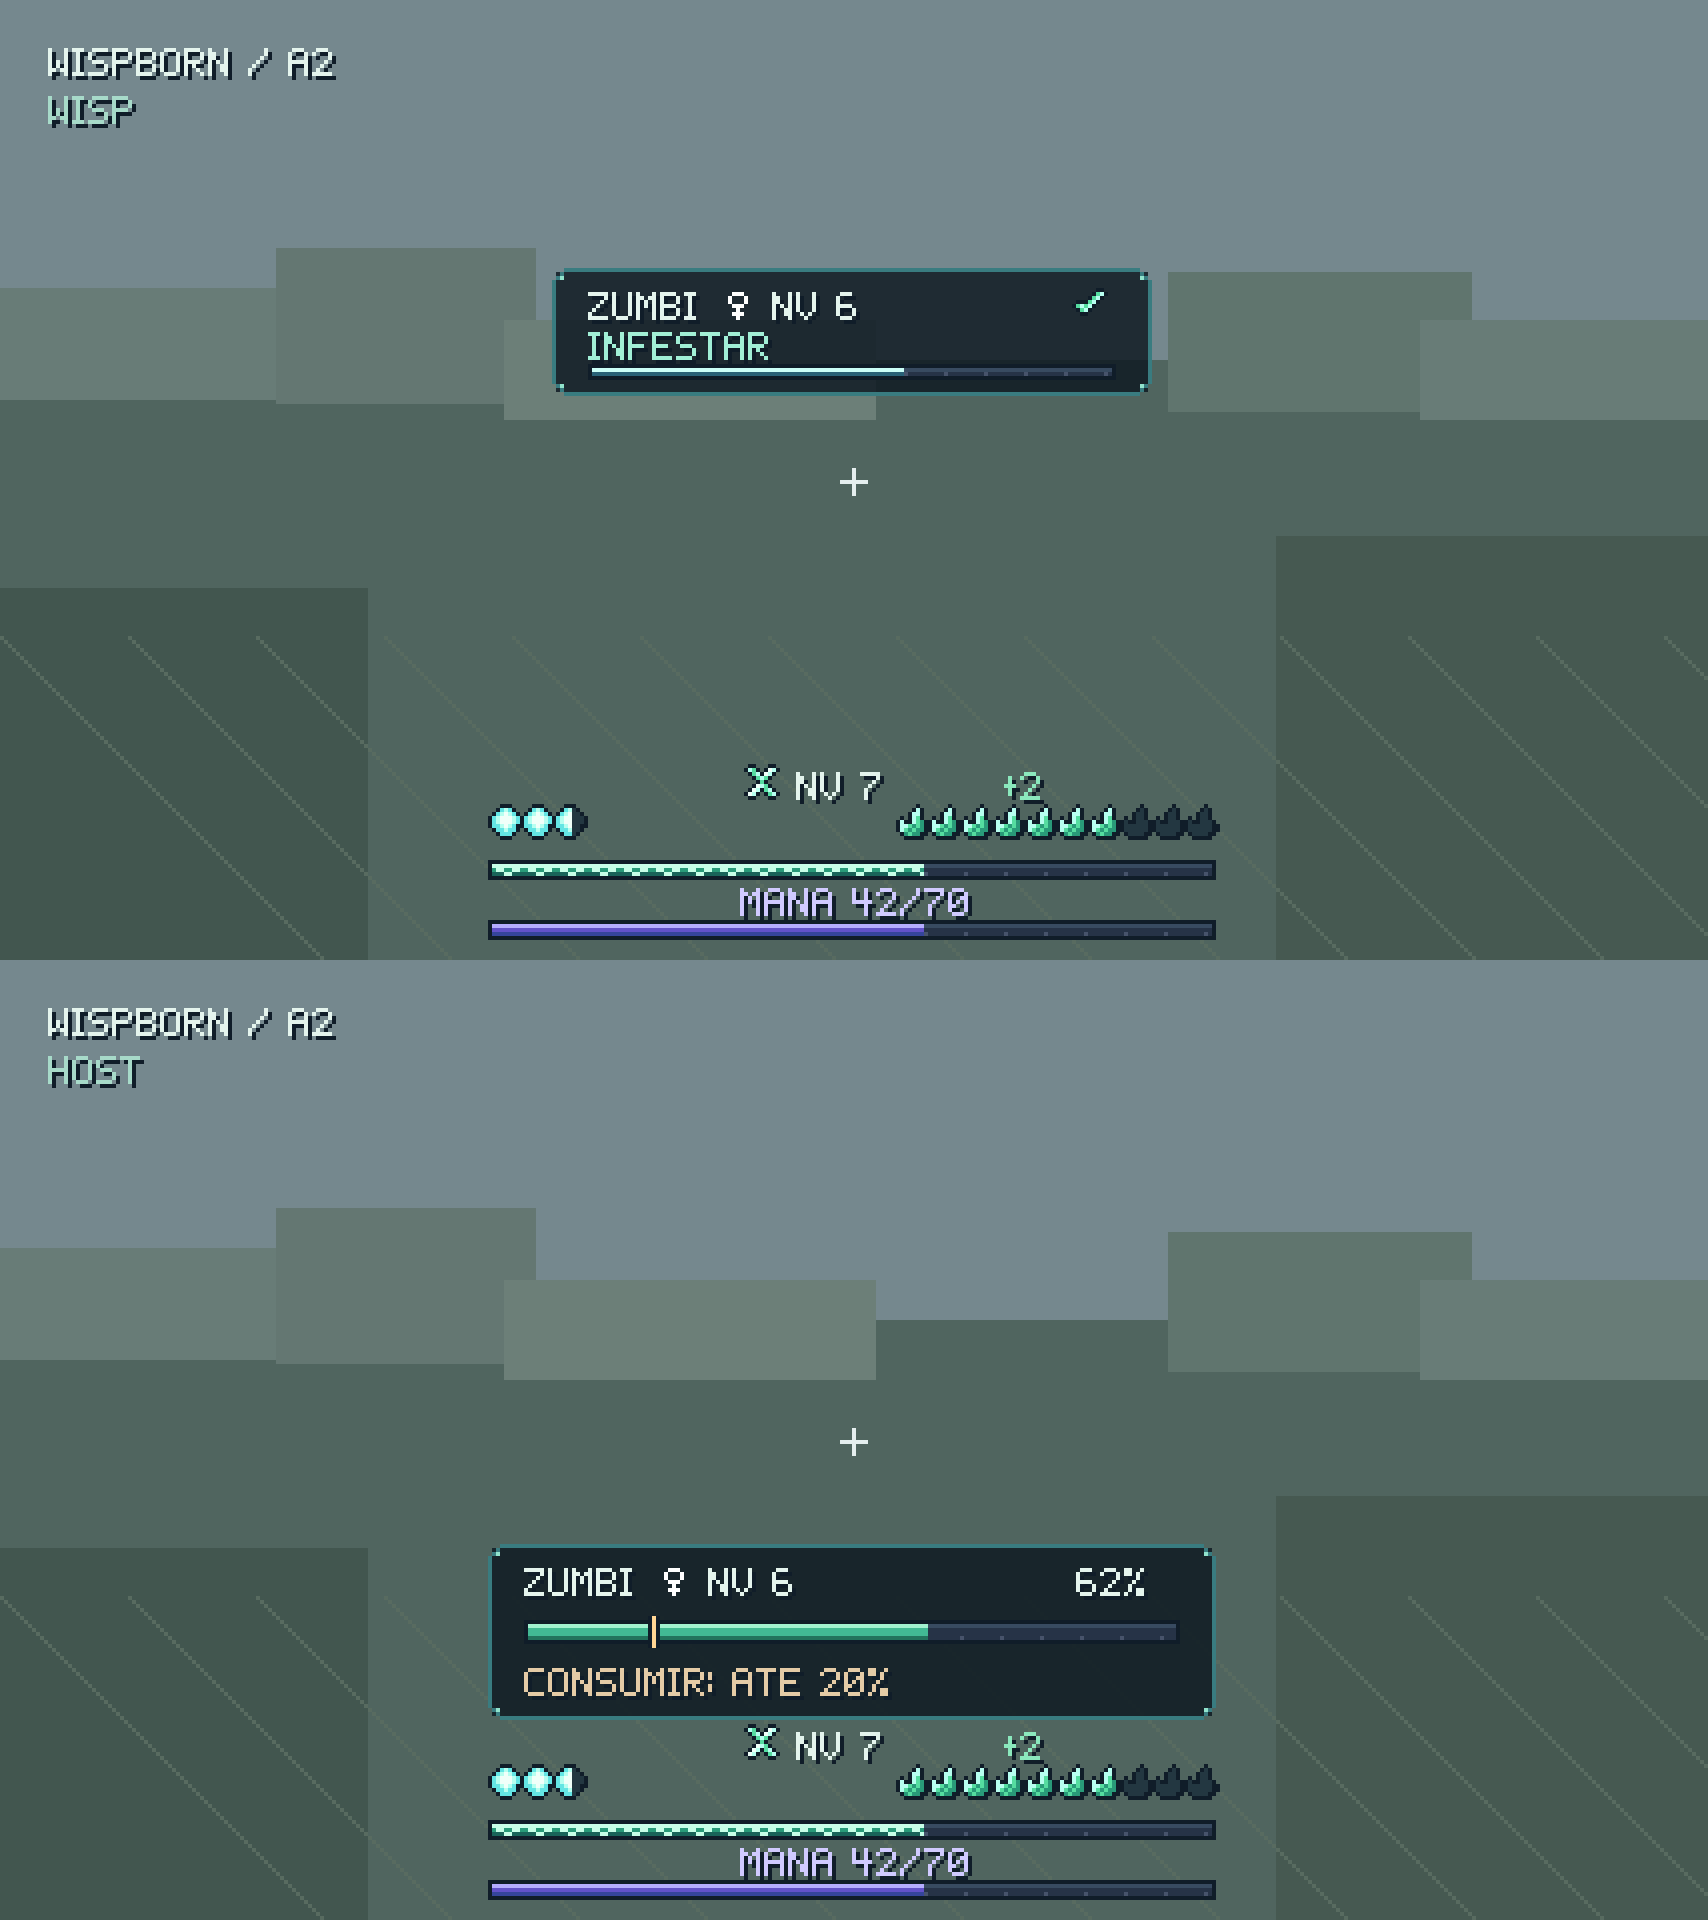
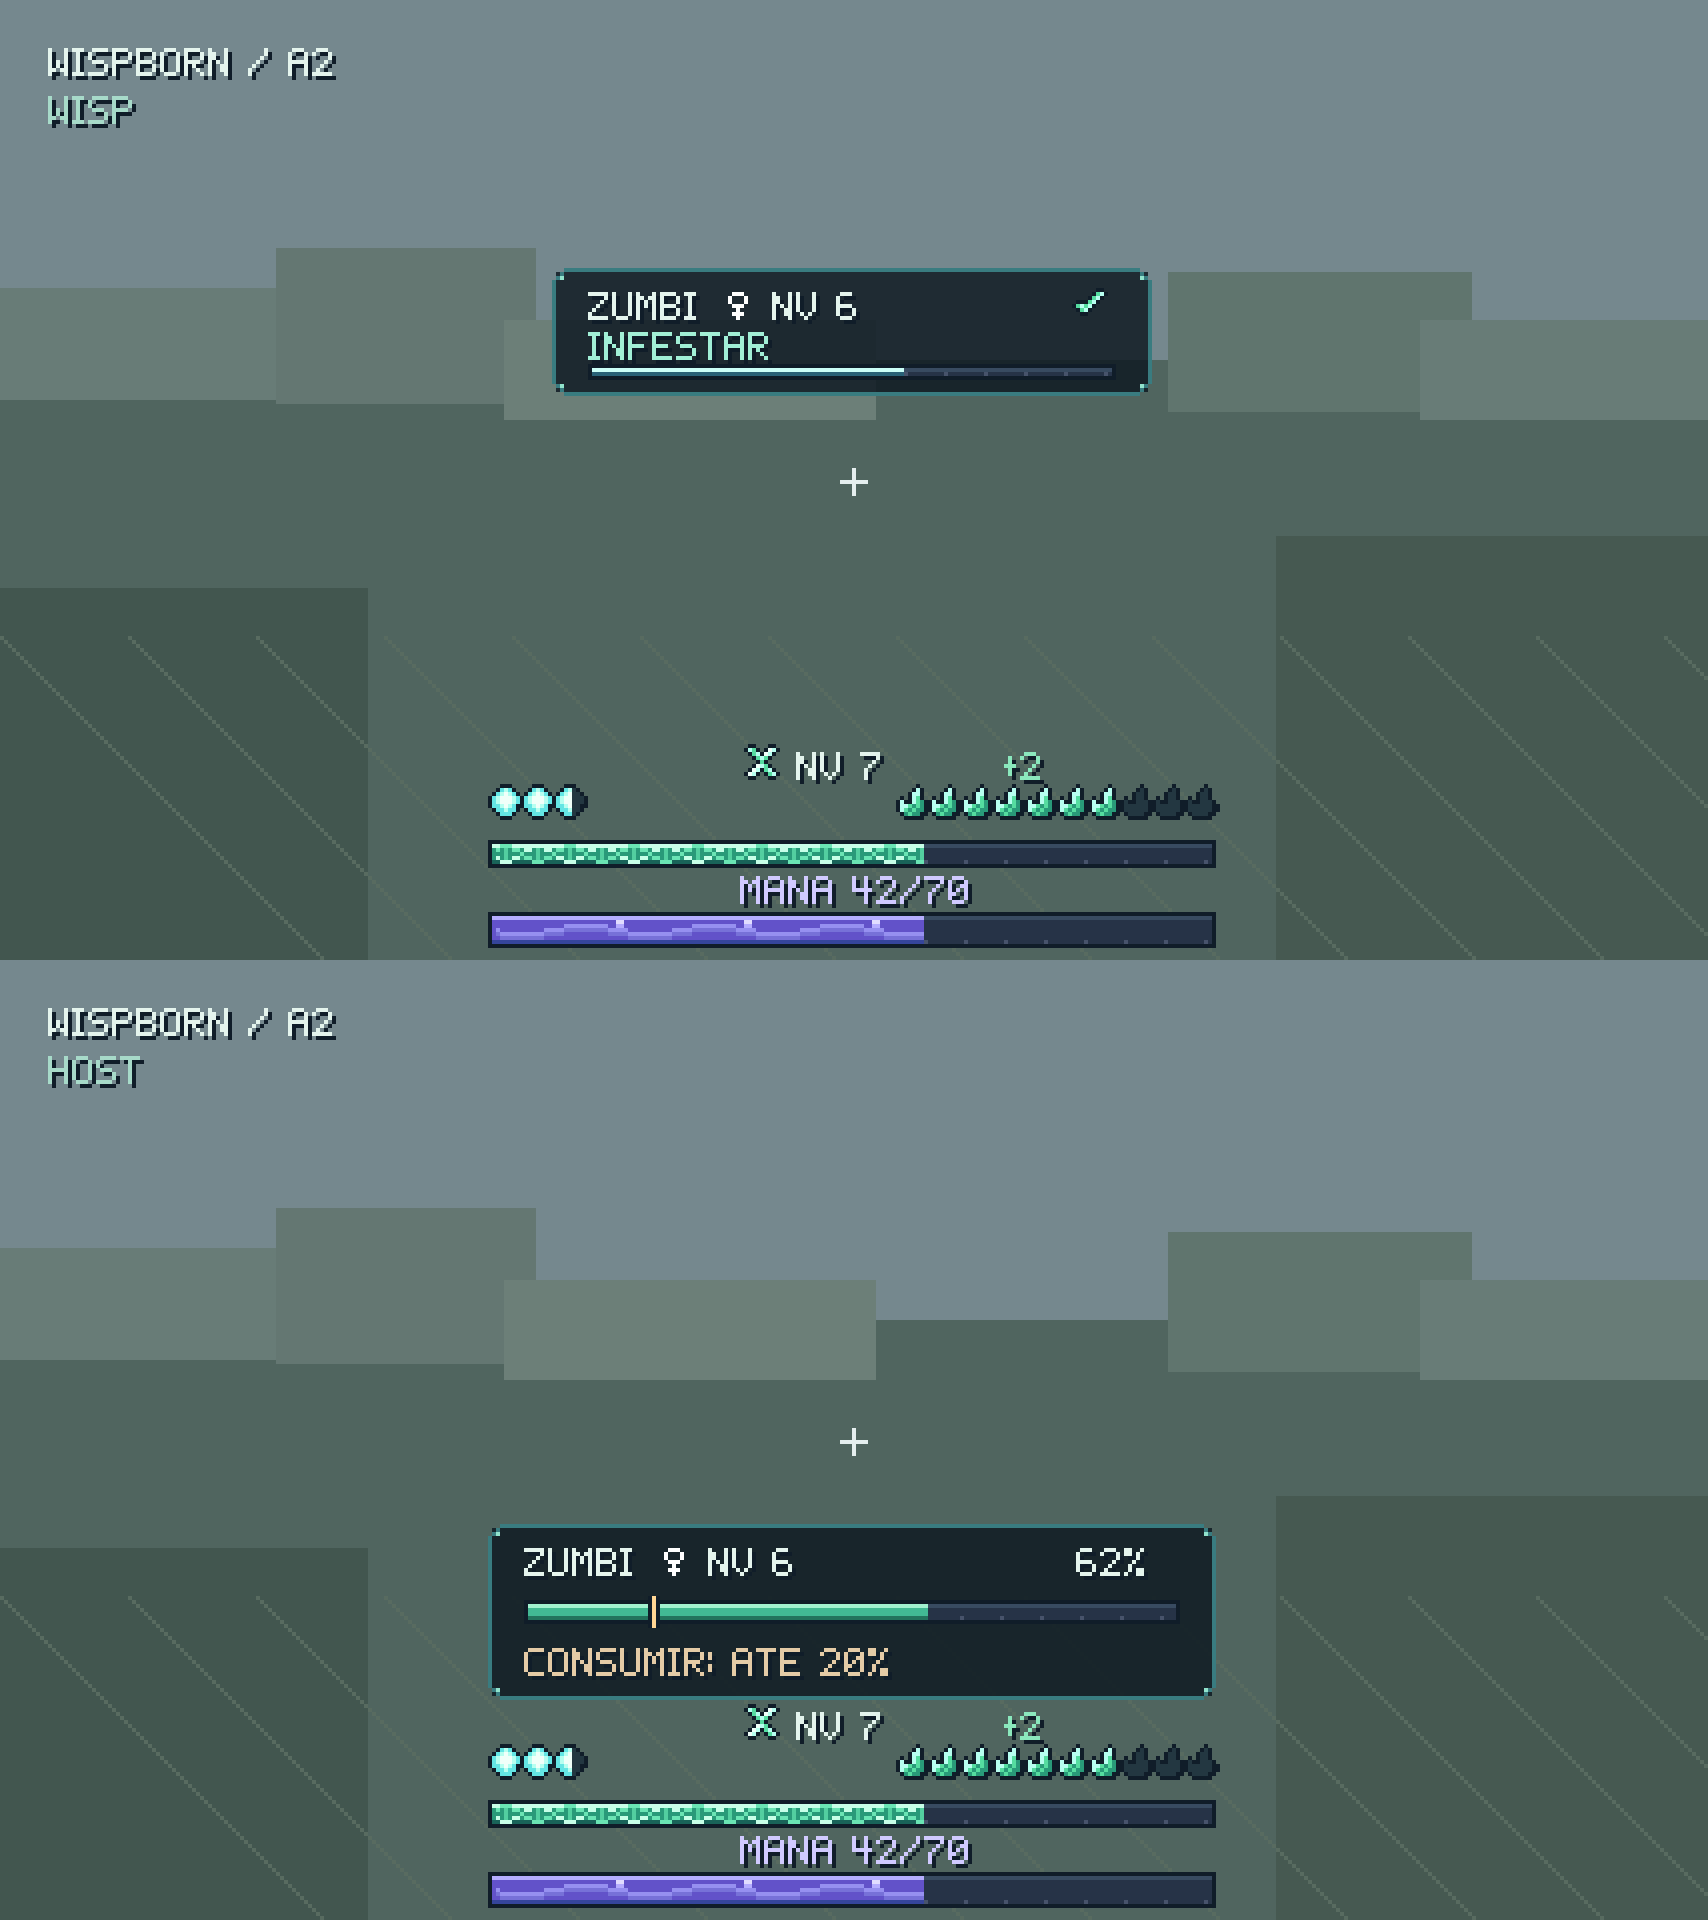
feat(art): ampliar e animar barras de mana e DNA

Changed region(s): [[0.2793, 0.7812, 0.7137, 1.0], [0.2793, 0.375, 0.7137, 0.5]]

diff --git a/art/hud/src/generate_hud.py b/art/hud/src/generate_hud.py
@@ -75,6 +75,30 @@ def frame(size):
     return image
 
 
+def animated_bar(kind, phase):
+    """Sixteen seamlessly looping pixel frames; values stay independent of shimmer."""
+    height=9 if kind=='mana' else 7
+    colors=('#6252c9','#b5adff','#35459b') if kind=='mana' else ('#299a79','#c7ffe8','#196359')
+    image=bar((182,height),colors,True)
+    draw=ImageDraw.Draw(image)
+    for x in range(2,180):
+        angle=2*math.pi*(x/32-phase/16)
+        if kind=='mana':
+            y=4+round(math.sin(angle))
+            draw.point((x,y),fill='#9690f0')
+            draw.point((x,y+1),fill='#7771d8')
+            if (x-2*phase)%32 in (0,1):
+                draw.point((x,2),fill='#e1dcff')
+                draw.point((x,3),fill='#b5adff')
+        else:
+            offset=round(2*math.sin(2*angle))
+            if (x-2*phase)%4==0:
+                draw.line((x,3-abs(offset),x,3+abs(offset)),fill='#53cfa0')
+            draw.point((x,3+offset),fill='#c7ffe8')
+            draw.point((x,3-offset),fill='#6ae4b4')
+    return image
+
+
 FONT = {
  'A':['01110','10001','10001','11111','10001','10001','10001'],
  'B':['11110','10001','10001','11110','10001','10001','11110'],
@@ -150,13 +174,21 @@ def make_sprites():
     put('core_half',core_half)
     hunger_empty=empty_shape(FLAME)
     put('hunger_empty',hunger_empty);put('hunger_full',flame);put('hunger_half',half(flame,hunger_empty))
-    for kind,colors,size in [('mana',('#6252c9','#b5adff','#35459b'),(182,5)),
-                             ('dna',('#299a79','#c7ffe8','#196359'),(182,5)),
+    for kind,colors,size in [('mana',('#6252c9','#b5adff','#35459b'),(182,9)),
+                             ('dna',('#299a79','#c7ffe8','#196359'),(182,7)),
                              ('host_health',('#42b994','#a1f1d0','#23735d'),(164,6)),
                              ('cast',('#409ba9','#cbfff8','#286177'),(132,4))]:
         prefix=kind+'_bar' if kind in ('mana','dna','cast') else kind
         put(prefix+'_background',bar(size,colors))
         put(prefix+'_progress',bar(size,colors,True,kind=='dna'))
+        if kind in ('mana','dna'):
+            sheet=Image.new('RGBA',(size[0],size[1]*16))
+            for phase in range(16):sheet.paste(animated_bar(kind,phase),(0,phase*size[1]))
+            save(sheet,'sprites',prefix+'_progress')
+            sprites[prefix+'_progress']=animated_bar(kind,0)
+            (ROOT/'sprites'/(prefix+'_progress.png.mcmeta')).write_text(json.dumps({
+                'animation':{'width':size[0],'height':size[1],'frametime':2,'interpolate':False}
+            },indent=2)+'\n')
     put('dna_icon',icon(['.##...##.','#le#.#wl#','.#el#wl#.','..#ele#..','...#e#...','..#wle#..','.#wl#el#.','#wl#.#el#','.##...##.']))
     put('host_frame',frame((182,44)));put('target_frame',frame((150,32)))
     marker=Image.new('RGBA',(3,8));d=ImageDraw.Draw(marker)
@@ -206,25 +238,26 @@ def mockup(sprites,glyphs,host):
     def paste(name,x,y):canvas.alpha_composite(sprites[name],(x,y))
     cx=213
     for i in range(3):
-        paste('core_container',cx-91+i*8,201)
-        paste('core_full' if i<2 else 'core_half',cx-91+i*8,201)
-    for i in range(10):paste('hunger_full' if i<7 else 'hunger_empty',cx+11+i*8,201)
-    paste('dna_icon',cx-27,191);text(canvas,'NV 7',cx-14,193)
-    text(canvas,'+2',cx+38,193,color='#8be8bd')
-    for kind,y,value in [('dna',215,.6),('mana',230,42/70)]:
+        paste('core_container',cx-91+i*8,196)
+        paste('core_full' if i<2 else 'core_half',cx-91+i*8,196)
+    for i in range(10):paste('hunger_full' if i<7 else 'hunger_empty',cx+11+i*8,196)
+    paste('dna_icon',cx-27,186);text(canvas,'NV 7',cx-14,188)
+    text(canvas,'+2',cx+38,188,color='#8be8bd')
+    for kind,y,value in [('dna',210,.6),('mana',228,42/70)]:
         paste(kind+'_bar_background',cx-91,y)
-        canvas.alpha_composite(sprites[kind+'_bar_progress'].crop((0,0,math.floor(182*value),5)),(cx-91,y))
-    text(canvas,'MANA 42/70',cx,222,color='#d0caff',center=True)
+        height=sprites[kind+'_bar_progress'].height
+        canvas.alpha_composite(sprites[kind+'_bar_progress'].crop((0,0,math.floor(182*value),height)),(cx-91,y))
+    text(canvas,'MANA 42/70',cx,219,color='#d0caff',center=True)
     if host:
-        paste('host_frame',cx-91,146)
-        text(canvas,'ZUMBI',cx-82,152)
-        canvas.alpha_composite(glyphs['sex_female'],(cx-47,152))
-        text(canvas,'NV 6',cx-36,152)
-        text(canvas,'62%',cx+56,152)
-        paste('host_health_background',cx-82,165)
-        canvas.alpha_composite(sprites['host_health_progress'].crop((0,0,101,6)),(cx-82,165))
-        paste('host_floor_marker',cx-82+32-1,164)
-        text(canvas,'CONSUMIR: ATE 20%',cx-82,177,color='#e4cba6')
+        paste('host_frame',cx-91,141)
+        text(canvas,'ZUMBI',cx-82,147)
+        canvas.alpha_composite(glyphs['sex_female'],(cx-47,147))
+        text(canvas,'NV 6',cx-36,147)
+        text(canvas,'62%',cx+56,147)
+        paste('host_health_background',cx-82,160)
+        canvas.alpha_composite(sprites['host_health_progress'].crop((0,0,101,6)),(cx-82,160))
+        paste('host_floor_marker',cx-82+32-1,159)
+        text(canvas,'CONSUMIR: ATE 20%',cx-82,172,color='#e4cba6')
     else:
         paste('target_frame',cx-75,67)
         text(canvas,'ZUMBI',cx-66,73)
@@ -262,6 +295,11 @@ def main():
     overlay.putalpha(overlay.getchannel('A').point(lambda value: round(value*.6)))
     Image.alpha_composite(Image.open(ROOT/'mockup.png'),overlay).save(ROOT/'vignette_preview.png')
     variants()
+    frames=[]
+    for phase in range(16):
+        animated=sprites | {kind+'_bar_progress':animated_bar(kind,phase) for kind in ('mana','dna')}
+        frames.append(mockup(animated,glyphs,True))
+    frames[0].save(ROOT/'bars_animated.gif',save_all=True,append_images=frames[1:],duration=100,loop=0,disposal=2)
     (ROOT/'manifest.json').write_text(json.dumps({name:list(image.size) for name,image in sprites.items()},indent=2)+'\n')
     print(f'Generated {len(sprites)} sprites, {len(glyphs)} glyphs, font provider, two mockups and variants.')
 

diff --git a/art/hud/src/validate_hud.py b/art/hud/src/validate_hud.py
@@ -30,8 +30,18 @@ def main():
     assert set(manifest)==required
     for name in required:
         image=Image.open(ROOT/'sprites'/f'{name}.png')
-        assert image.mode=='RGBA' and image.size==fixed[name],name
-        assert list(image.size)==manifest[name]
+        expected=fixed[name]
+        if name in ('mana_bar_progress','dna_bar_progress'):
+            meta=json.loads((ROOT/'sprites'/f'{name}.png.mcmeta').read_text())['animation']
+            assert (meta['width'],meta['height'])==expected
+            assert meta['frametime']==2 and meta['interpolate'] is False
+            assert image.size==(expected[0],expected[1]*16)
+            frames=[image.crop((0,i*expected[1],expected[0],(i+1)*expected[1])).tobytes() for i in range(16)]
+            assert len(set(frames))>=8, name
+        else:
+            assert image.size==expected,name
+        assert image.mode=='RGBA',name
+        assert list(expected)==manifest[name]
         if name not in ('host_frame','target_frame','cast_vignette'):
             assert set(image.getchannel('A').getdata()) <= {0,255},name
     vignette=Image.open(ROOT/'sprites/cast_vignette.png')
@@ -45,6 +55,8 @@ def main():
     providers=json.loads((ROOT/'font/icons.json').read_text())['providers']
     assert [p['chars'] for p in providers]==[[chr(0xE000+i)] for i in range(3)]
     assert all(p['height']==8 and p['ascent']==7 for p in providers)
+    gif=Image.open(ROOT/'bars_animated.gif')
+    assert gif.n_frames==16 and gif.info['loop']==0 and gif.info['duration']==100
     for name in ('mockup','mockup_host'):
         image=Image.open(ROOT/(name+'.png'))
         assert image.mode=='RGBA' and image.size==(854,480)

diff --git a/art/hud/LAYOUT.md b/art/hud/LAYOUT.md
@@ -20,14 +20,14 @@ neighbor. They are original schematic scenes, not Minecraft screenshots.
 
 | Element | X | Y | Size | Rule |
 | --- | ---: | ---: | --- | --- |
-| Health containers and foreground | -91 | 39 | 9×9 each | Advance 8 px to the right; 2 HP per icon. |
-| Hunger icons | 11 | 39 | 9×9 each | Ten slots, advance 8 px to the right. |
-| DNA icon | -27 | 49 | 9×9 | Level row above health/hunger. |
-| Level text | -14 | 47 | Font height 7–9 | `Nv 7`; grow to the right. |
-| Available stat points | 38 | 47 | Font height 7–9 | `+2`; hide when zero. |
-| DNA background/progress | -91 | 25 | 182×5 | Crop progress; do not stretch pixels. |
-| Mana value | centered on 0 | 18 | Font height 7–9 | `Mana 42/70`; measure the localized string. |
-| Mana background/progress | -91 | 10 | 182×5 | Crop progress; do not stretch pixels. |
+| Health containers and foreground | -91 | 44 | 9×9 each | Advance 8 px to the right; 2 HP per icon. |
+| Hunger icons | 11 | 44 | 9×9 each | Ten slots, advance 8 px to the right. |
+| DNA icon | -27 | 54 | 9×9 | Level row above health/hunger. |
+| Level text | -14 | 52 | Font height 7–9 | `Nv 7`; grow to the right. |
+| Available stat points | 38 | 52 | Font height 7–9 | `+2`; hide when zero. |
+| DNA background/progress | -91 | 30 | 182×7 | Crop progress; do not stretch pixels. |
+| Mana value | centered on 0 | 21 | Font height 7–9 | `Mana 42/70`; measure the localized string. |
+| Mana background/progress | -91 | 12 | 182×9 | Crop progress; do not stretch pixels. |
 
 Health examples use three containers (5/6 HP); hunger uses seven full and three
 empty sparks (14/20). Extra health rows grow upward at a 10 px pitch, at most ten
@@ -43,15 +43,15 @@ complete icons including their empty portions. Blinking containers are brighter.
 
 | Element | X | Y | Size |
 | --- | ---: | ---: | --- |
-| `host_frame` | -91 | 94 | 182×44 |
-| Host name | -82 | 88 | Available text width depends on trailing labels |
-| Sex glyph / level | after measured name + 5 px | 88 | Glyph 5×8; level text |
-| Health percent | right aligned at 82 | 88 | Font height 7–9 |
-| Health background/progress | -82 | 75 | 164×6 |
-| `host_floor_marker` | `-82 + floor(164 * floorPercent) - 1` | 76 | 3×8 |
-| Consume status / configured key | -82 | 63 | Font height 7–9 |
-| `consume_ready` | -82 | 64 | 9×9; shift following text right by 12 px |
-| `no_ep` | 70 | 64 | 9×9; reserve its trailing space when visible |
+| `host_frame` | -91 | 99 | 182×44 |
+| Host name | -82 | 93 | Available text width depends on trailing labels |
+| Sex glyph / level | after measured name + 5 px | 93 | Glyph 5×8; level text |
+| Health percent | right aligned at 82 | 93 | Font height 7–9 |
+| Health background/progress | -82 | 80 | 164×6 |
+| `host_floor_marker` | `-82 + floor(164 * floorPercent) - 1` | 81 | 3×8 |
+| Consume status / configured key | -82 | 68 | Font height 7–9 |
+| `consume_ready` | -82 | 69 | 9×9; shift following text right by 12 px |
+| `no_ep` | 70 | 69 | 9×9; reserve its trailing space when visible |
 
 Draw marker after both bar layers. The example uses Zombie, female, level 6,
 62% health (101/164 px progress) and the 20% marker at pixel 32. At 62% the
@@ -113,3 +113,21 @@ Dependencies: Python 3 and Pillow. Generation uses pixel operations and an origi
 The A2 files remain in `art/hud/`. They are not a claim that F4 or V1 first-person
 effects have been implemented. User-facing strings shown in mockups are examples;
 production text must come from the mod's language files.
+
+## Mana and XP/DNA animation revision
+
+Requested size increase: mana is now 182×9 GUI pixels and XP/DNA is 182×7.
+The width remains aligned with the vanilla hotbar footprint. Upper rows and host
+panel move upward by 5 px to retain spacing. Mana text stays outside the bar.
+
+Progress PNGs contain 16 vertically stacked frames: mana 182×144, DNA 182×112.
+Their `.png.mcmeta` specifies frame width/height, 2 ticks per frame and no interpolation.
+Mana flows in blue-violet with small moving highlights. DNA has two counterphase
+emerald strands and connecting rungs. Both loop seamlessly; frame dimensions in
+`manifest.json` are logical dimensions, not the full strip dimensions.
+
+Copy the metadata alongside each PNG during F4 integration. The GUI atlas handles
+texture animation; rendering must still crop to the actual resource fraction.
+This is decorative motion, not invented changes to the player's mana or XP.
+`bars_animated.gif` previews the loop at 100 ms per frame with resource values fixed.
+The other mockups show frame zero. No Java HUD implementation is included.

diff --git a/docs/specs/F4-hud.md b/docs/specs/F4-hud.md
@@ -26,8 +26,8 @@ Nenhuma barra, ícone ou moldura desenhada com `fill`, gradiente ou forma geomé
 | `core_container`, `core_container_blinking` | 9×9 | Fundo de cada "coração" do wisp (piscando ao tomar dano) |
 | `core_full`, `core_half` | 9×9 | Vida do wisp (2 de vida = 1 ícone) |
 | `hunger_empty`, `hunger_half`, `hunger_full` | 9×9 | Fome do wisp (2 pontos = 1 ícone) |
-| `mana_bar_background`, `mana_bar_progress` | 182×5 | Barra de mana (cor de mana); progresso recortado pela largura |
-| `dna_bar_background`, `dna_bar_progress` | 182×5 | EP dentro do nível atual, no lugar da barra de XP |
+| `mana_bar_background`, `mana_bar_progress` | 182×9 | Barra de mana (cor de mana); progresso recortado pela largura |
+| `dna_bar_background`, `dna_bar_progress` | 182×7 | EP dentro do nível atual, no lugar da barra de XP |
 | `dna_icon` | 9×9 | Ícone ao lado do número de nível |
 | `host_frame` | definido no LAYOUT | Moldura do painel do hospedeiro |
 | `host_health_background`, `host_health_progress` | definido no LAYOUT | Vida do hospedeiro |
@@ -37,6 +37,10 @@ Nenhuma barra, ícone ou moldura desenhada com `fill`, gradiente ou forma geomé
 | `target_frame` | definido no LAYOUT | Fundo do painel do alvo (substitui o texto do M3b) |
 | `target_ok`, `target_blocked` | 9×9 | Situação do alvo |
 | `cast_bar_background`, `cast_bar_progress` | definido no LAYOUT | Barra de conjuração (substitui o `fill` atual) |
+
+As dimensões das barras correspondem a um frame. Os sprites de progresso usam 16 frames
+verticais com `.png.mcmeta` (2 ticks por frame, sem interpolação). Copiar PNG e metadata
+juntos; o atlas anima a textura, enquanto a largura recortada continua seguindo o recurso.
 
 ### Fonte de ícones (`assets/wispborn/font/icons.json`)
 Provider `bitmap` com glifos em PNG na Área de Uso Privado:
